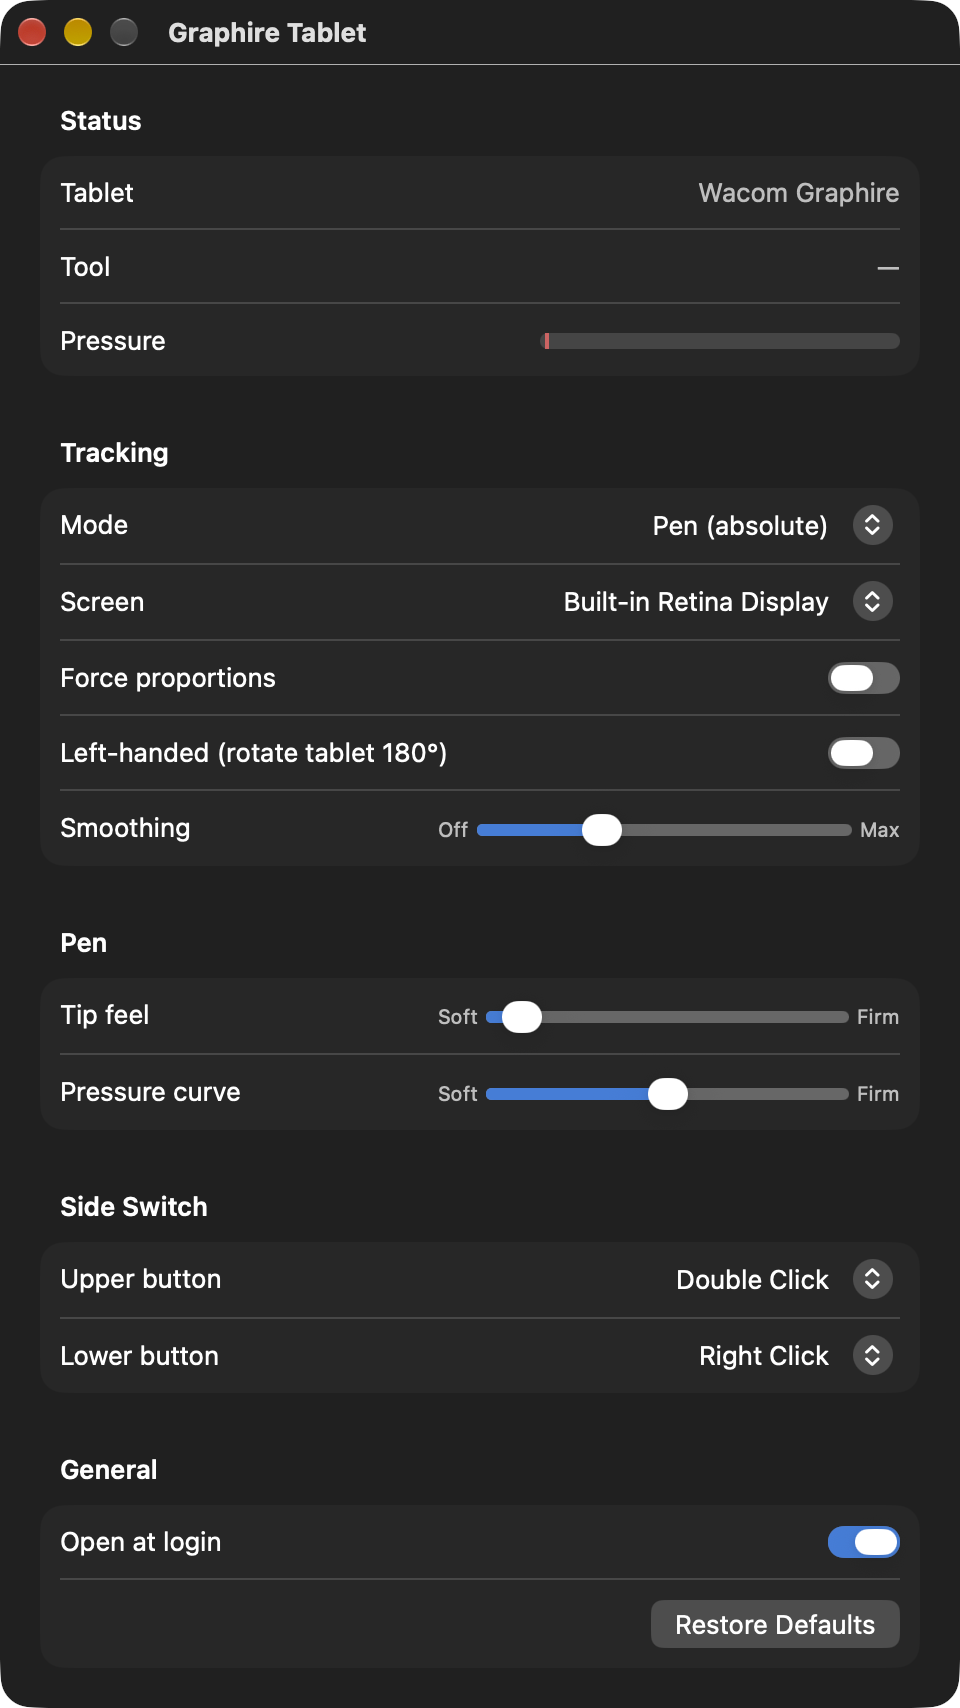
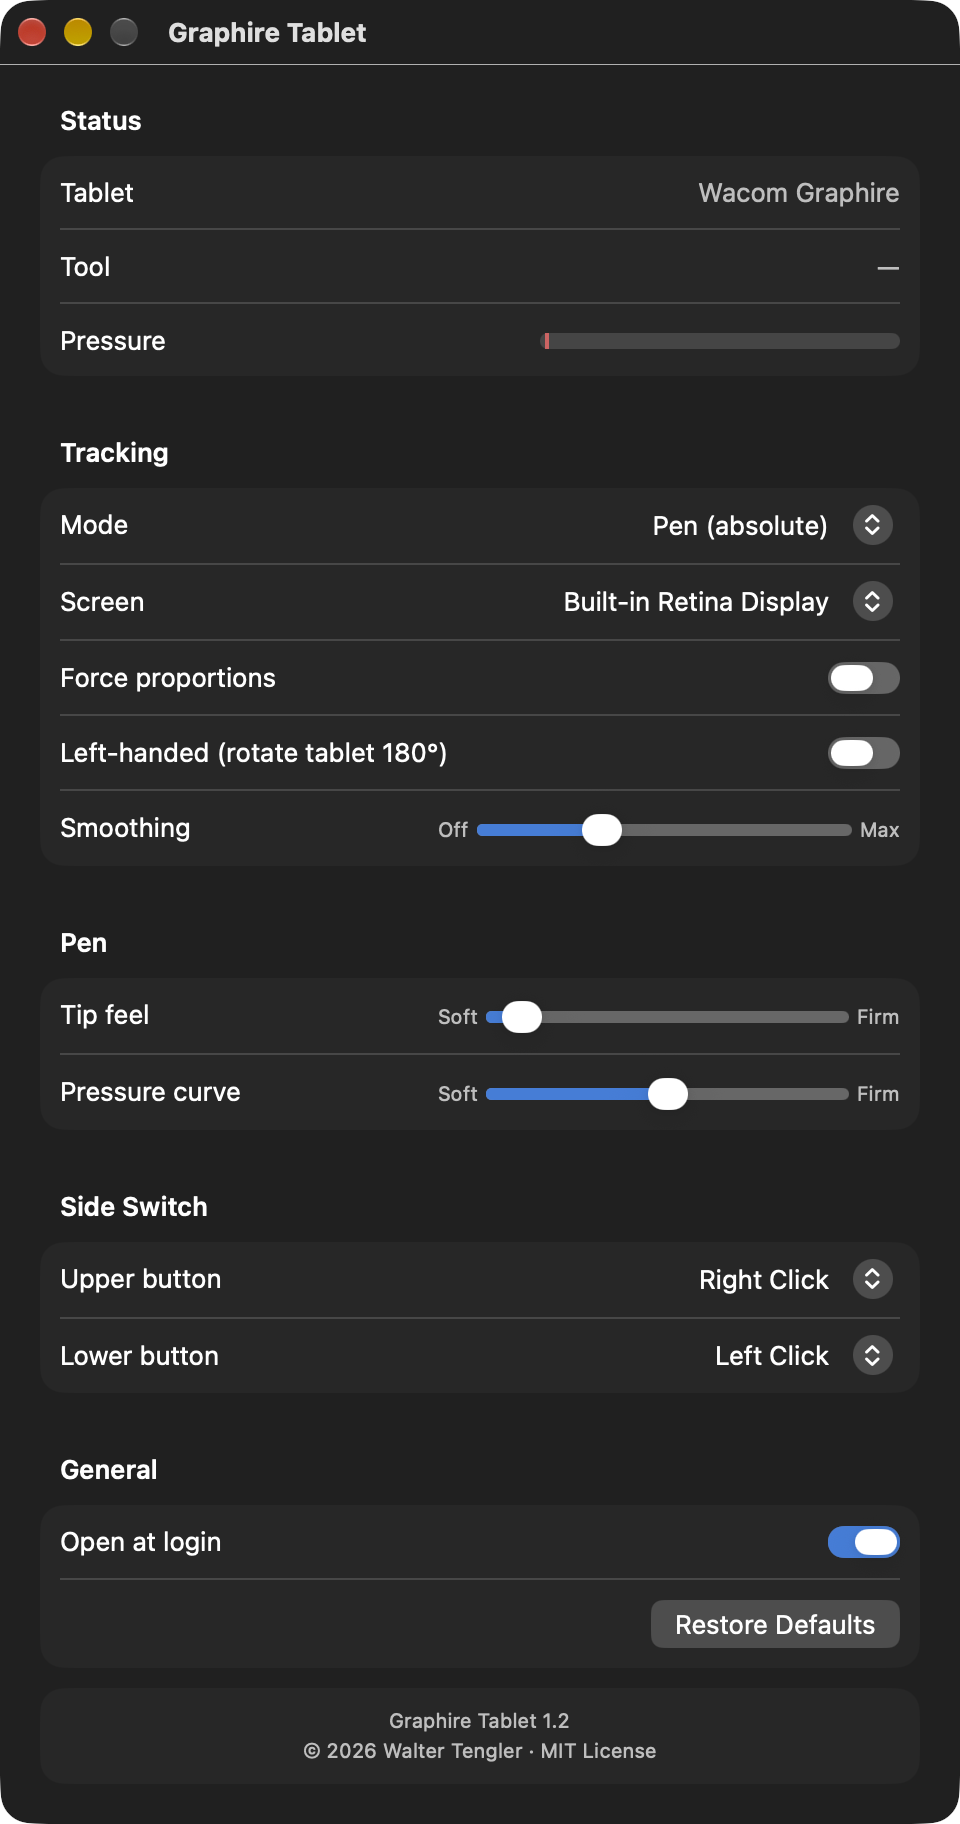
Show version and copyright in Settings

diff --git a/Sources/SettingsView.swift b/Sources/SettingsView.swift
@@ -42,6 +42,10 @@ struct SettingsView: View {
     @State private var displays = Displays.all()
     @State private var openAtLogin = LoginItem.isEnabled
 
+    private var appVersion: String {
+        Bundle.main.infoDictionary?["CFBundleShortVersionString"] as? String ?? ""
+    }
+
     private var connectionText: String {
         switch state.connection {
         case .searching: return "Not connected"
@@ -135,6 +139,16 @@ struct SettingsView: View {
                     Spacer()
                     Button("Restore Defaults") { settings.resetToDefaults() }
                 }
+            }
+
+            Section {
+                VStack(spacing: 2) {
+                    Text("Graphire Tablet \(appVersion)")
+                    Text("© 2026 Walter Tengler · MIT License")
+                }
+                .font(.footnote)
+                .foregroundStyle(.secondary)
+                .frame(maxWidth: .infinity)
             }
         }
         .formStyle(.grouped)
